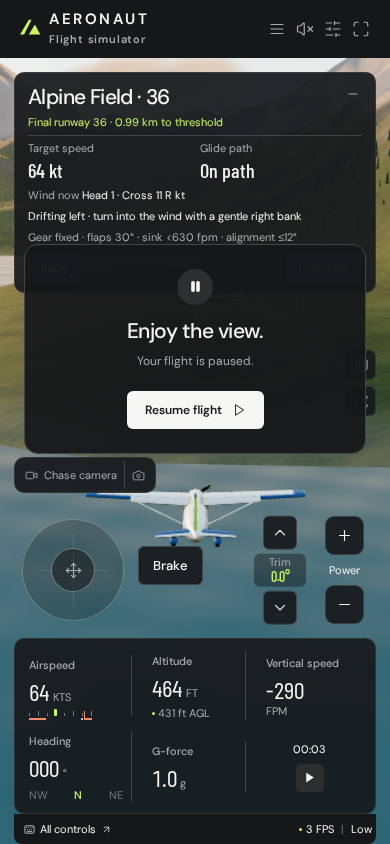
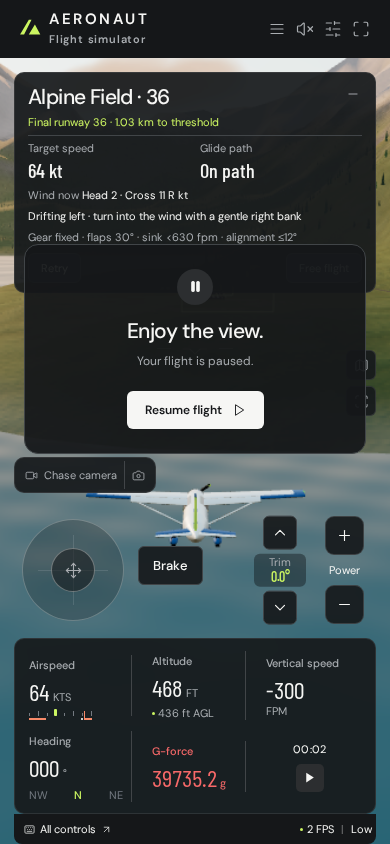
Document crosswind practice integration checks after #46

diff --git a/docs/crosswind-practice.md b/docs/crosswind-practice.md
@@ -154,6 +154,12 @@ All checks ran against the dev server through `window.aeronaut`. The new diagnos
   - H hid the panels: the practice card stayed visible, the restore button appeared and the attempt kept its wind.
   - P paused: the wind clock was identical after 3 s paused, and after 2.5 s under the Weather dialog.
   - Enter on the focused **Retry crosswind practice** button retried the attempt. **Switch to the Mira T2** kept the brief open with focus on Start.
+- **Integration with #46.**
+  - Collapsing the card and then retrying, or starting a new practice, reopens it with the minus icon, `aria-expanded="true"` and "Collapse flight details" (`setMissionCollapsed`).
+  - `getTouchdown()` after a retry shows no stale contact and no settle (`resetTouchdown()` on every practice start).
+- **Cues in the browser.** A keyed approach showed "Drifting left · turn into the wind with E" and the offset cue on desktop, and "… with a gentle right bank" at 390×844.
+  - A hands-off attempt stayed about 40 m up and drifted 50 m left after 29 flight seconds, and flying to the flare by hand is impractical at 1 fps (below). So the flare and straighten cues were not seen live in the browser.
+  - Their timing is proven by the deterministic pilot following `practiceCue()`, the same function the card displays.
 - **Touch.** Checked with dispatched pointer events on the touch yoke (it banked and turned the aircraft during an attempt) and with clicks on the brief and result buttons. No real touch device was used. The synthetic pointer logged one `setPointerCapture` error, because no real pointer existed; it is not an app error.
 - **Software-WebGL limit.** This VM renders at about 1 fps, even at Low quality.
   - Flight time advances about one flight second per 6–8 s of wall time, so no attempt was hand-flown to a landing in the browser.
